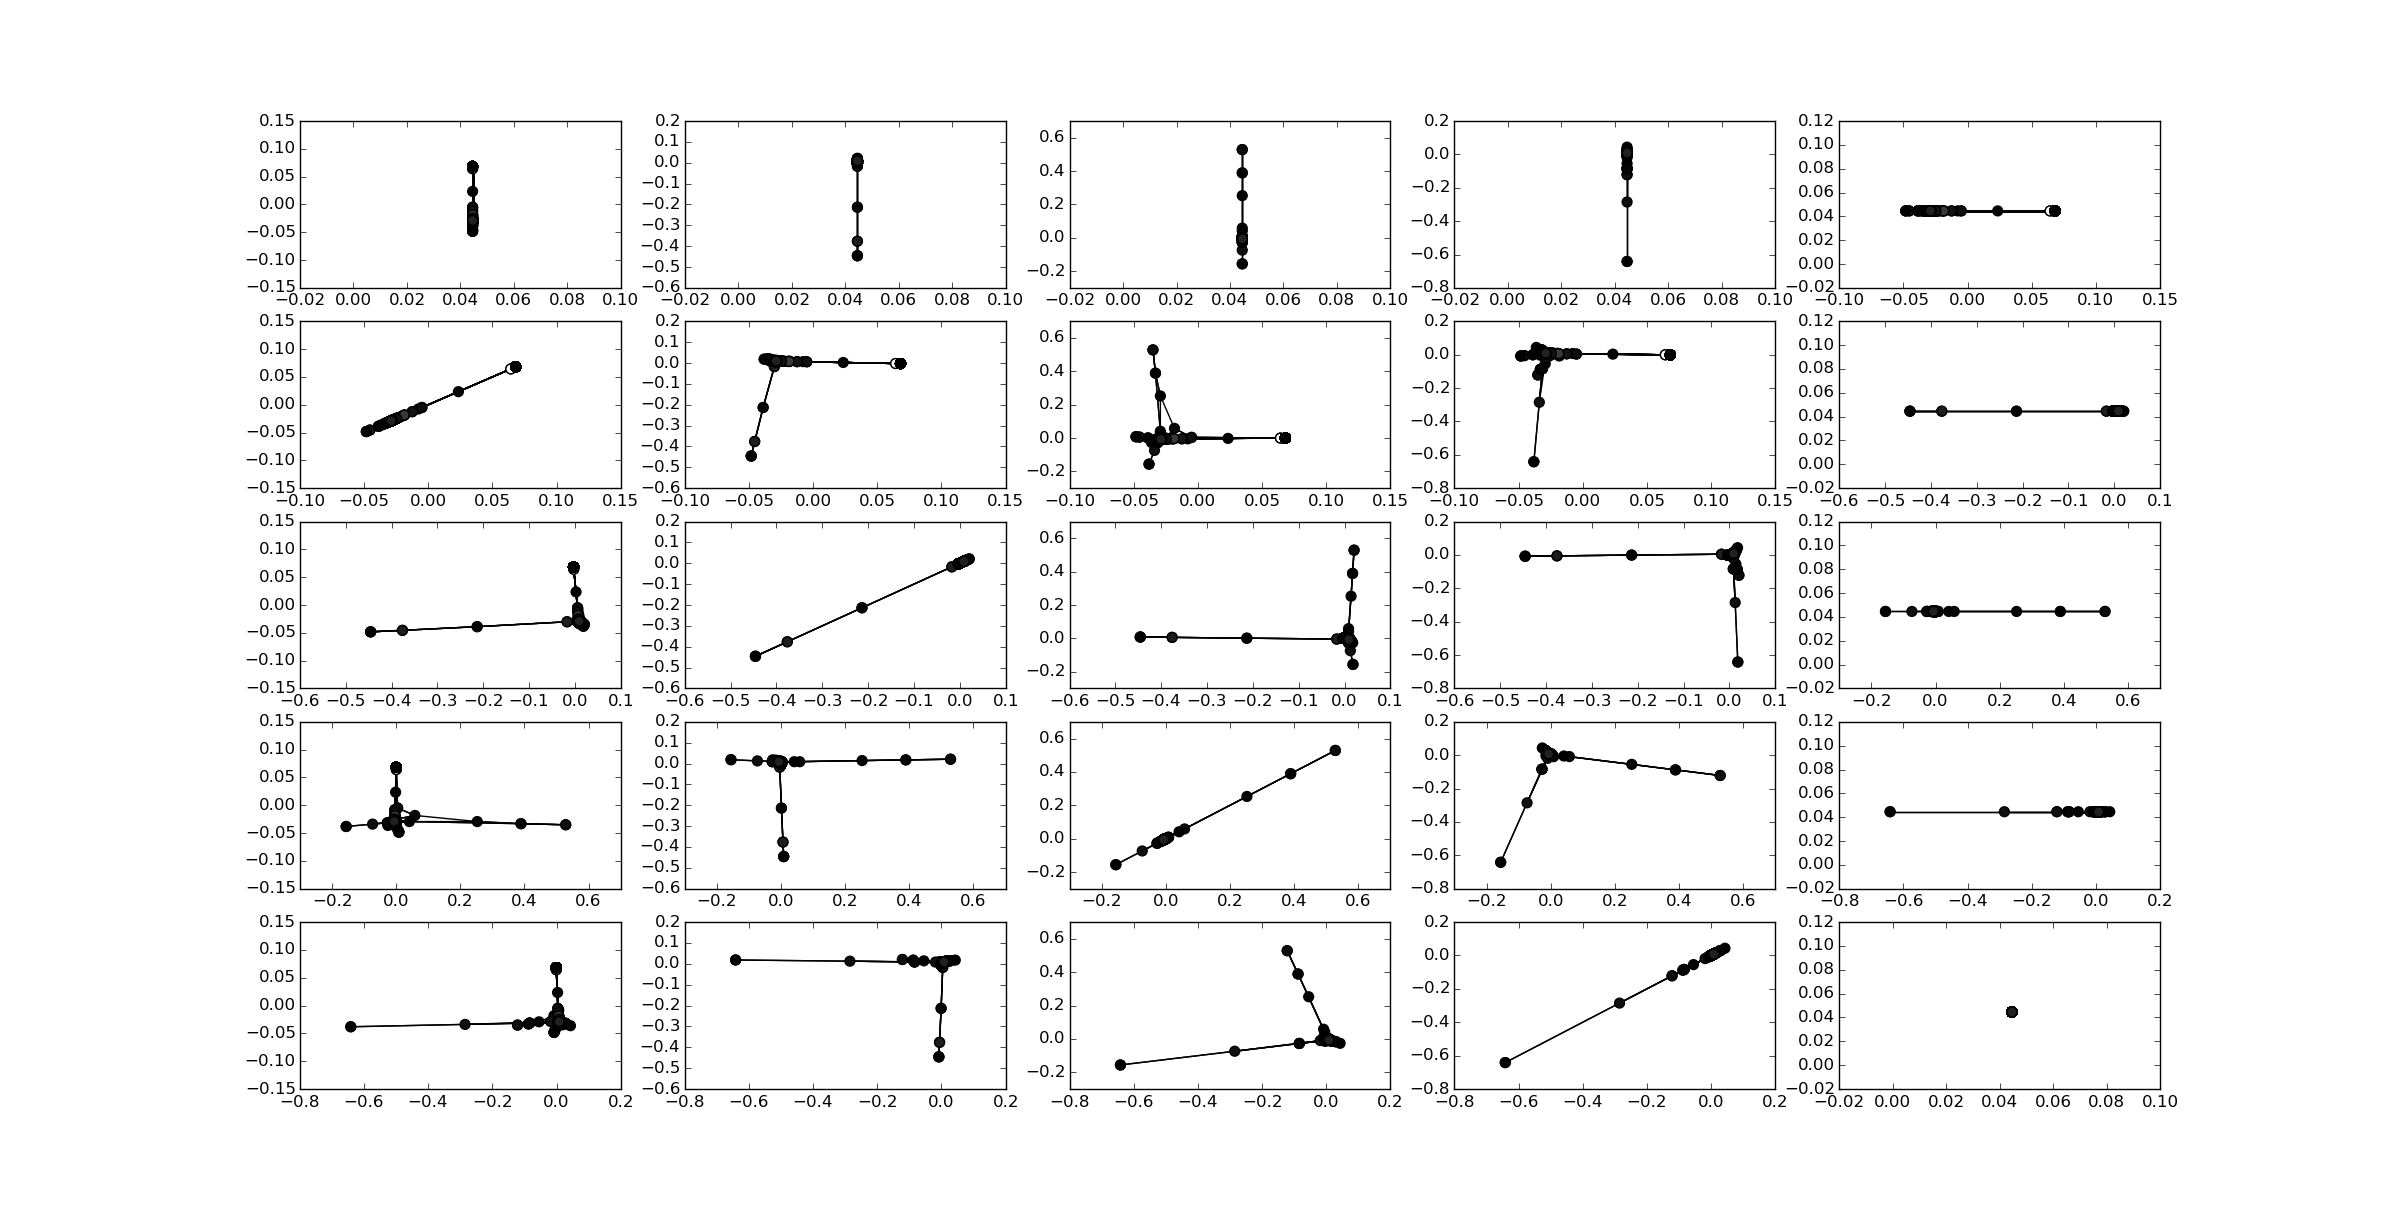
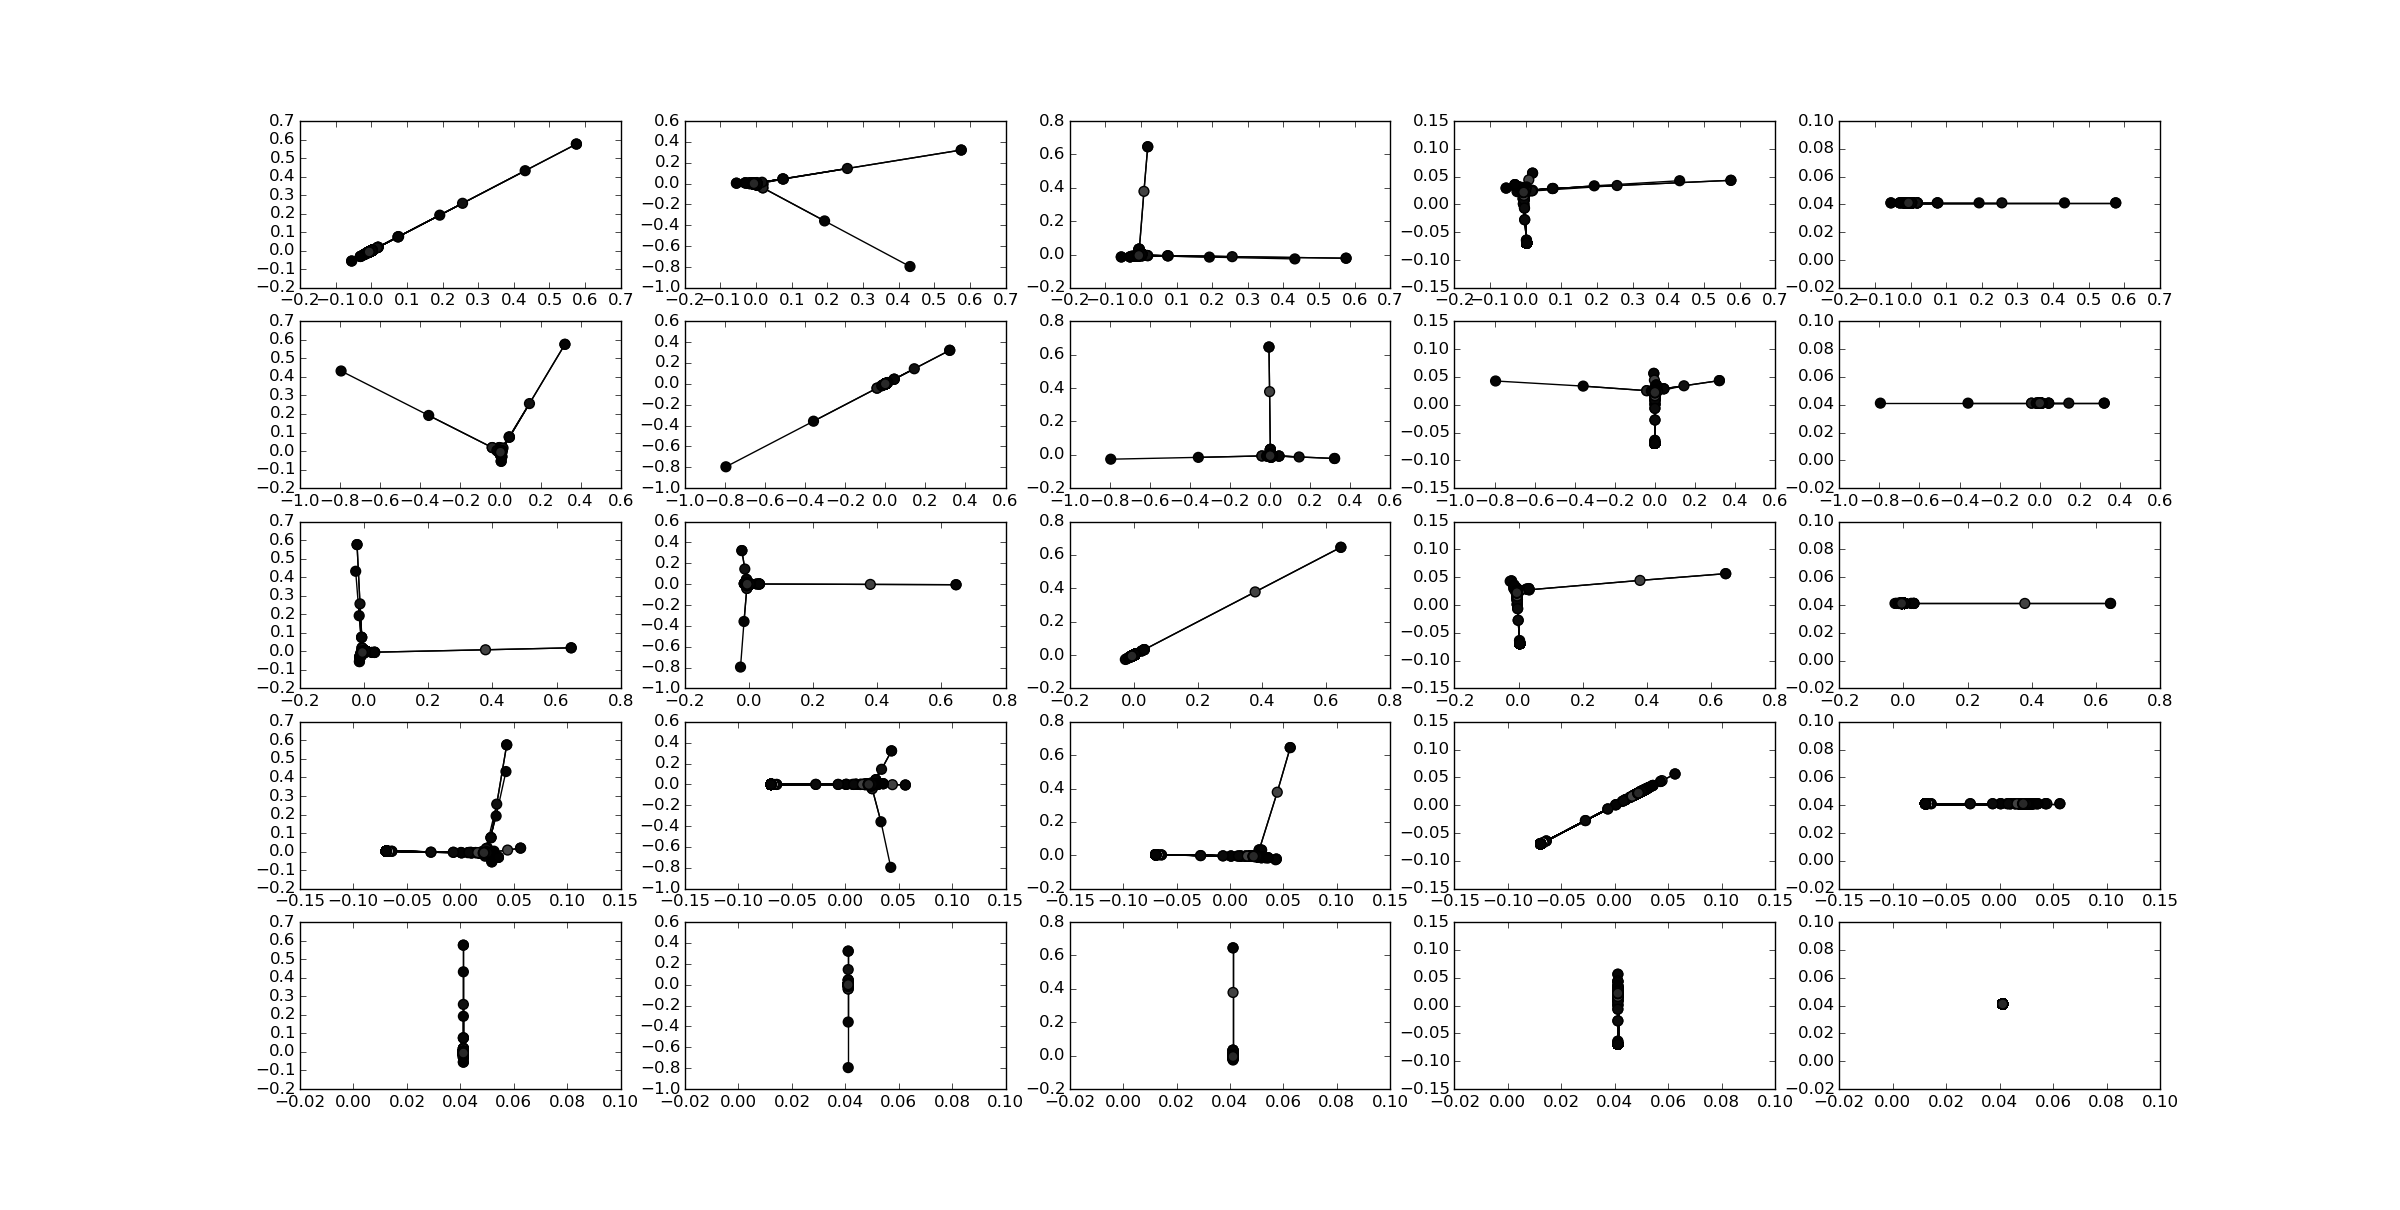
fixed scatter plot matrix

diff --git a/similarityGraph6.py b/similarityGraph6.py
@@ -12,7 +12,9 @@ from numpy import linalg as LA
 from sklearn.cluster import KMeans
 
 # Gaussian probability density function
-gaussian = lambda x, mu, sig: (np.exp(-np.power(x - mu, 2.) / (2 * np.power(sig, 2.)))) / (np.sqrt(2*np.pi) * sig) 
+gaussian = lambda x, mu, sig: (
+    np.exp(-np.power(x - mu, 2.) / (2 * np.power(sig, 2.)))) / (np.sqrt(2*np.pi) * sig)
+
 
 def buildGraph(pickl):
     """
@@ -22,26 +24,24 @@ def buildGraph(pickl):
     """
 
     dic = pickl
-    
+
     dic1 = dic
-    G=nx.Graph()
+    G = nx.Graph()
     dic3 = dict(dic)
     checked = []
-    
+
     # Adding nodes with bios greater than 30 words.
     for key in dic:
-        if((re.sub("[ ]+", "", dic[key])!="") and len(dic[key]) ) > 30:
+        if((re.sub("[ ]+", "", dic[key]) != "") and len(dic[key])) > 30:
             G.add_node(key)
         else:
             del dic3[key]
 
-    
     dic1 = dic3
-    
-    vect = TfidfVectorizer(min_df=1)    
+
+    vect = TfidfVectorizer(min_df=1)
     coefs = list()
-    
-    
+
     joint_dict = dict()
     # Cosine similarity measure matrix
     F = vect.fit_transform(dic3.values())
@@ -51,30 +51,28 @@ def buildGraph(pickl):
         for j, key1 in enumerate(dic1):
             if(i > j):
                 # obtain coef for corresponding key
-                tfidf =Cosine_mat[i,j]
+                tfidf = Cosine_mat[i, j]
                 # Repeated nodes must be filtered
-                if dic[key]== dic[key1]:
+                if dic[key] == dic[key1]:
 
                     continue
                 else:
                     coefs.append(tfidf)
                     joint_dict[str(key) + str(key1)] = tfidf
-    
-    
 
-    data = [c  for c in coefs if c ]
-    ## max(data)
-    
+    data = [c for c in coefs if c]
+    # max(data)
+
     mu = np.mean(data)
     std = np.std(data)
 
     binwidth = 0.007
-    plt.subplot(1,2,0)
+    plt.subplot(1, 2, 0)
     plt.hist(data, bins=np.arange(min(data), max(data) + binwidth, binwidth))
     # PLot gaussian fit contrast
     plt.xlabel("$cos(\\theta)$")
     plt.ylabel("frecuency count of $cos(\\theta)$ values")
-    plt.subplot(1,2,1)
+    plt.subplot(1, 2, 1)
     plt.plot(np.arange(0, max(data), 0.001),
              gaussian(np.arange(0, max(data), 0.001), mu, std),
              linewidth=2)
@@ -85,146 +83,145 @@ def buildGraph(pickl):
     # Edge creation !
     for key in dic3:
         for key1 in dic1:
-            if(key!=key1):
+            if(key != key1):
                 try:
                     x = joint_dict[str(key) + str(key1)]
                     # If cosine similarity is an outlier with 95% change
                     # Make edge between nodes that conform the similarity
-                    if( x - mu > 2* std ):
-                        G.add_edge(key,key1)
+                    if(x - mu > 2 * std):
+                        G.add_edge(key, key1)
                 except:
                     pass
 
-    # Return the conected component with largest cardinality of nodes 
+    # Return the conected component with largest cardinality of nodes
     # Throw away small connected components we are interested in the big one
-    # For our mini project exploration purposes 
-    G = max(nx.connected_component_subgraphs(G),key=len)
+    # For our mini project exploration purposes
+    G = max(nx.connected_component_subgraphs(G), key=len)
     return G
 
- 
 
-def splitGraph(graph, results):   
+def splitGraph(graph, results):
     graphChange1 = nx.Graph()
     graphChange2 = nx.Graph()
-    i=0
+    i = 0
     for node in graph:
-        if(results[i]==0):
+        if(results[i] == 0):
             graphChange1.add_node(node)
         else:
             graphChange2.add_node(node)
-        i +=1
-    ## graphChange2.nodes()
-    flag=0
+        i += 1
+    # graphChange2.nodes()
+    flag = 0
     flagd = 0
     for item in graph.edges():
         for node in graphChange1:
             if item[0] == node:
                 flag += 1
 
-    
         for node in graphChange1:
             if item[1] == node:
                 flag += 1
         if flag == 2:
-            graphChange1.add_edge(item[0],item[1])
+            graphChange1.add_edge(item[0], item[1])
         flag = 0
         for noded in graphChange2:
             if item[0] == noded:
                 flagd += 1
 
-    
         for noded in graphChange2:
             if item[1] == noded:
                 flagd += 1
         if flagd == 2:
-            graphChange2.add_edge(item[0],item[1])
+            graphChange2.add_edge(item[0], item[1])
         flagd = 0
-    ## graphChange2.edges()
-    ## graph.edges()
+    # graphChange2.edges()
+    # graph.edges()
     return graphChange1, graphChange2
-                   
 
 
 def communityGraph(graph):
     """
     Median method of community detection
     """
-    
+
     lapgr = nx.laplacian_matrix(graph)
 
-    evals,evec = np.linalg.eigh(lapgr.todense()) #Get the eigenvalues and eigenvectors of the Laplacian matrix
-
+    # Get the eigenvalues and eigenvectors of the Laplacian matrix
+    evals, evec = np.linalg.eigh(lapgr.todense())
 
     fiedler = evec[1]
-    results =[]
+    results = []
     ## "Fiedler", fiedler
-    median = np.median(fiedler, axis=1) # median of the second eigenvalue
-    for i in range (0,fiedler.size):    # divide the graph nodes into two
-        if(fiedler[0,i]<median):
+    median = np.median(fiedler, axis=1)  # median of the second eigenvalue
+    for i in range(0, fiedler.size):    # divide the graph nodes into two
+        if(fiedler[0, i] < median):
             results.append(0)
         else:
             results.append(1)
     return results, evals, evec
-    
-def embed_nodes(g, x, y):
-    return dict((g.nodes()[i], (x[i],y[i])) for i in range(len(g.nodes())))  
 
-def showEigenspace(G, V,k ):
+
+def embed_nodes(g, x, y):
+    return dict((g.nodes()[i], (x[i], y[i])) for i in range(len(g.nodes())))
+
+
+def showEigenspace(G, V, k):
     """
     This method projects our graph G in to a sub
     eigen living in R^k , Mostly used for visualization
     purposes
     """
-    V = V.T[0:k,:]
+    V = V.T[0:k, :]
     fig = plt.figure()
-    #fif, axarr = plt.subplots(len(V), len(V))
-    count =0 
     for i, v in enumerate(V):
         for j, u in enumerate(V):
-            ## len(v)
-            ## len(u)
-            emb = embed_nodes(G,v.ravel().tolist()[0],u.ravel().tolist()[0])
-            plt.subplot(k,k, count)
-            nx.draw_networkx_nodes(G, pos=emb, node_size=50, with_labels=False, node_color=G.degree().values(), cmap= plt.get_cmap('gray'))
+
+            emb = embed_nodes(G, v.ravel().tolist()[0], u.ravel().tolist()[0])
+            plt.subplot(k, k, k*k - count)
+            nx.draw_networkx_nodes(G, pos=emb, node_size=50, with_labels=False, node_color=G.degree(
+            ).values(), cmap=plt.get_cmap('gray'))
             nx.draw_networkx_edges(G, pos=emb)
-            # exit()
+
             count += 1
+
     plt.show()
-    
-def specKMeans(graph,evec, k):
+
+
+def specKMeans(graph, evec, k):
     """
     Spectral Kmeans algorithm:
     1. Spectral graph representation in Laplacian eigen supbspace R^k
     2. Kmeans clustering on our R^k space
     """
     nodeCluster = dict()
-    evec = evec.T[1:k+1,:]
+    evec = evec.T[1:k+1, :]
 
     kmeans = KMeans(n_clusters=k)
     y_pred = kmeans.fit_predict(evec.T)
     centroids = kmeans.cluster_centers_
-    i=0
+    i = 0
     for node in graph:
         nodeCluster[node] = y_pred[i]
         i += 1
     return y_pred, nodeCluster, centroids
 
-def construct(pickl,startVector, endVector):
+
+def construct(pickl, startVector, endVector):
     graph = buildGraph(pickl)
 
-        
     results, evals, evec = communityGraph(graph)
     kmeans, cluster, centroids = specKMeans(graph, evec, 3)
-    
+
     #first, second = splitGraph(graph,results)
     franVectors = list()
-    for i in range(0,len(evec[:,startVector])):
-        
-        franVectors.append([evec[:,startVector].item(i),evec[:,endVector].item(i)])
-    
-    
-    emb = embed_nodes(graph,evec[:,startVector].ravel().tolist()[0],evec[:,endVector].ravel().tolist()[0])
-    
+    for i in range(0, len(evec[:, startVector])):
+
+        franVectors.append(
+            [evec[:, startVector].item(i), evec[:, endVector].item(i)])
+
+    emb = embed_nodes(graph, evec[:, startVector].ravel().tolist()[
+                      0], evec[:, endVector].ravel().tolist()[0])
+
     showEigenspace(graph, evec, 5)
     '''
     nodelist1 = []
@@ -240,16 +237,16 @@ def construct(pickl,startVector, endVector):
     ## "Second nodelist", nodelist2
     '''
 
-    
-    i=0
+    i = 0
     for node in graph.nodes():
         graph.node[node]['category'] = kmeans[i]
         i += 1
-    color_map = {0:'b', 1:'r', 2:'y', 3: 'g'}
+    color_map = {0: 'b', 1: 'r', 2: 'y', 3: 'g'}
 
-    #nx.draw(graph, node_color=[color_map[graph.node[node]['category']] for node in graph]) 
+    #nx.draw(graph, node_color=[color_map[graph.node[node]['category']] for node in graph])
 
-    nx.draw_networkx(graph, pos=emb, node_size=100, with_labels=False, node_color=[color_map[graph.node[node]['category']] for node in graph])
+    nx.draw_networkx(graph, pos=emb, node_size=100, with_labels=False, node_color=[
+                     color_map[graph.node[node]['category']] for node in graph])
     plt.xlabel("second eigen vector")
     plt.ylabel("third eigen vector")
     plt.show()
@@ -262,14 +259,14 @@ def construct(pickl,startVector, endVector):
                        nodelist=nodelist2,
                        node_color='b')
     '''
-    #nx.draw_networkx_edges(graph,pos=emb,width=1.0,alpha=0.5)
+    # nx.draw_networkx_edges(graph,pos=emb,width=1.0,alpha=0.5)
     return centroids, franVectors
 
 
 def fran(startVector, endVector):
-    pickl = pickle.load( open( "BiodictData/biodictdist4.pickle", "rb" ) )
+    pickl = pickle.load(open("BiodictData/biodictdist4.pickle", "rb"))
     centr1, franVectors1 = construct(pickl, startVector, endVector)
-    pickl = pickle.load( open( "BiodictData/biodictdist8.pickle", "rb" ) )
+    pickl = pickle.load(open("BiodictData/biodictdist8.pickle", "rb"))
     centr2, franVectors2 = construct(pickl, startVector, endVector)
     centr = list()
     franVectors = list()
@@ -278,17 +275,17 @@ def fran(startVector, endVector):
     franVectors.append(franVectors1)
     franVectors.append(franVectors2)
     return centr, franVectors
-    
+
 
 if __name__ == '__main__':
-    k=2
+    k = 2
     '''
     pickl = pickle.load( open( "biodictdist4.pickle", "rb" ) )
     centr1 = construct(pickl)
     pickl = pickle.load( open( "biodictdist8.pickle", "rb" ) )
     centr2 = construct(pickl)
     '''
-    centr, franVectors = fran(1,2) 
+    centr, franVectors = fran(1, 2)
     # # "Centroids" , centr
     # # "Vectors", franVectors
     # "time"
@@ -302,6 +299,3 @@ if __name__ == '__main__':
         centroids.append( min(dist))
     # centroids
     '''
-    
-    
-    
